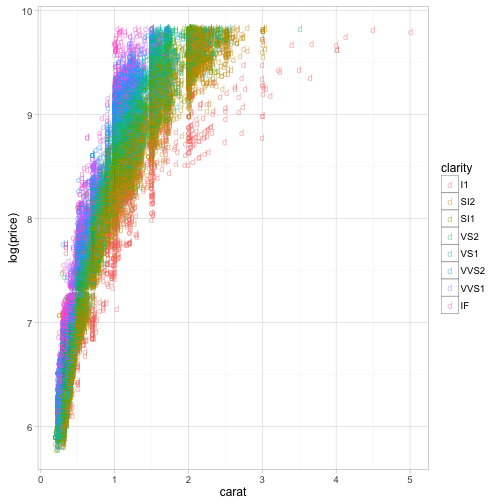
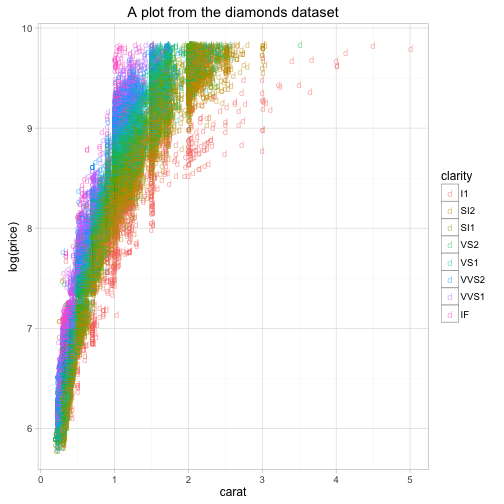
new post

diff --git a/_posts/2016-08-25-a-first-post.md b/_posts/2016-08-25-a-first-post.md
@@ -1,32 +1,12 @@
 ---
 layout: post
 title:  A First Post
-date: "2016-08-25 21:28:17"
+date: "2016-08-25 21:46:42"
 published: true
 tags: [example1, example2]
 ---
 
 
-```r
-source('a-first-post.R')
-```
-
-```
-## 
-## Attaching package: 'dplyr'
-```
-
-```
-## The following objects are masked from 'package:stats':
-## 
-##     filter, lag
-```
-
-```
-## The following objects are masked from 'package:base':
-## 
-##     intersect, setdiff, setequal, union
-```
 
 # Here's a cool post
 Your markdown here!
@@ -51,14 +31,15 @@ head(diamonds)
 
 ## What about a plot?
 
-**Here's a plot**.
+Here's a plot. Here's a plot. Here's a plot. Here's a plot. Here's a plot. Here's a plot. Here's a plot. Here's a plot. Here's a plot. Here's a plot. Here's a plot. Here's a plot. Here's a plot. Here's a plot. Here's a plot. Here's a plot. Here's a plot. Here's a plot. Here's a plot. Here's a plot. Here's a plot. Here's a plot. Here's a plot. Here's a plot. Here's a plot. Here's a plot. Here's a plot. Here's a plot. Here's a plot. Here's a plot. Here's a plot. 
 
 
 ```r
 diamonds %>% 
   ggplot(aes(x = carat, y = log(price), color=clarity)) +
   geom_point(alpha=0.5, size=3, shape='diamond') +
-  theme_light()
+  theme_light() +
+  ggtitle('A plot from the diamonds dataset')
 ```
 
 ![plot of chunk unnamed-chunk-3](/figure/source/a-first-post/2016-08-25-a-first-post/unnamed-chunk-3-1.png)
